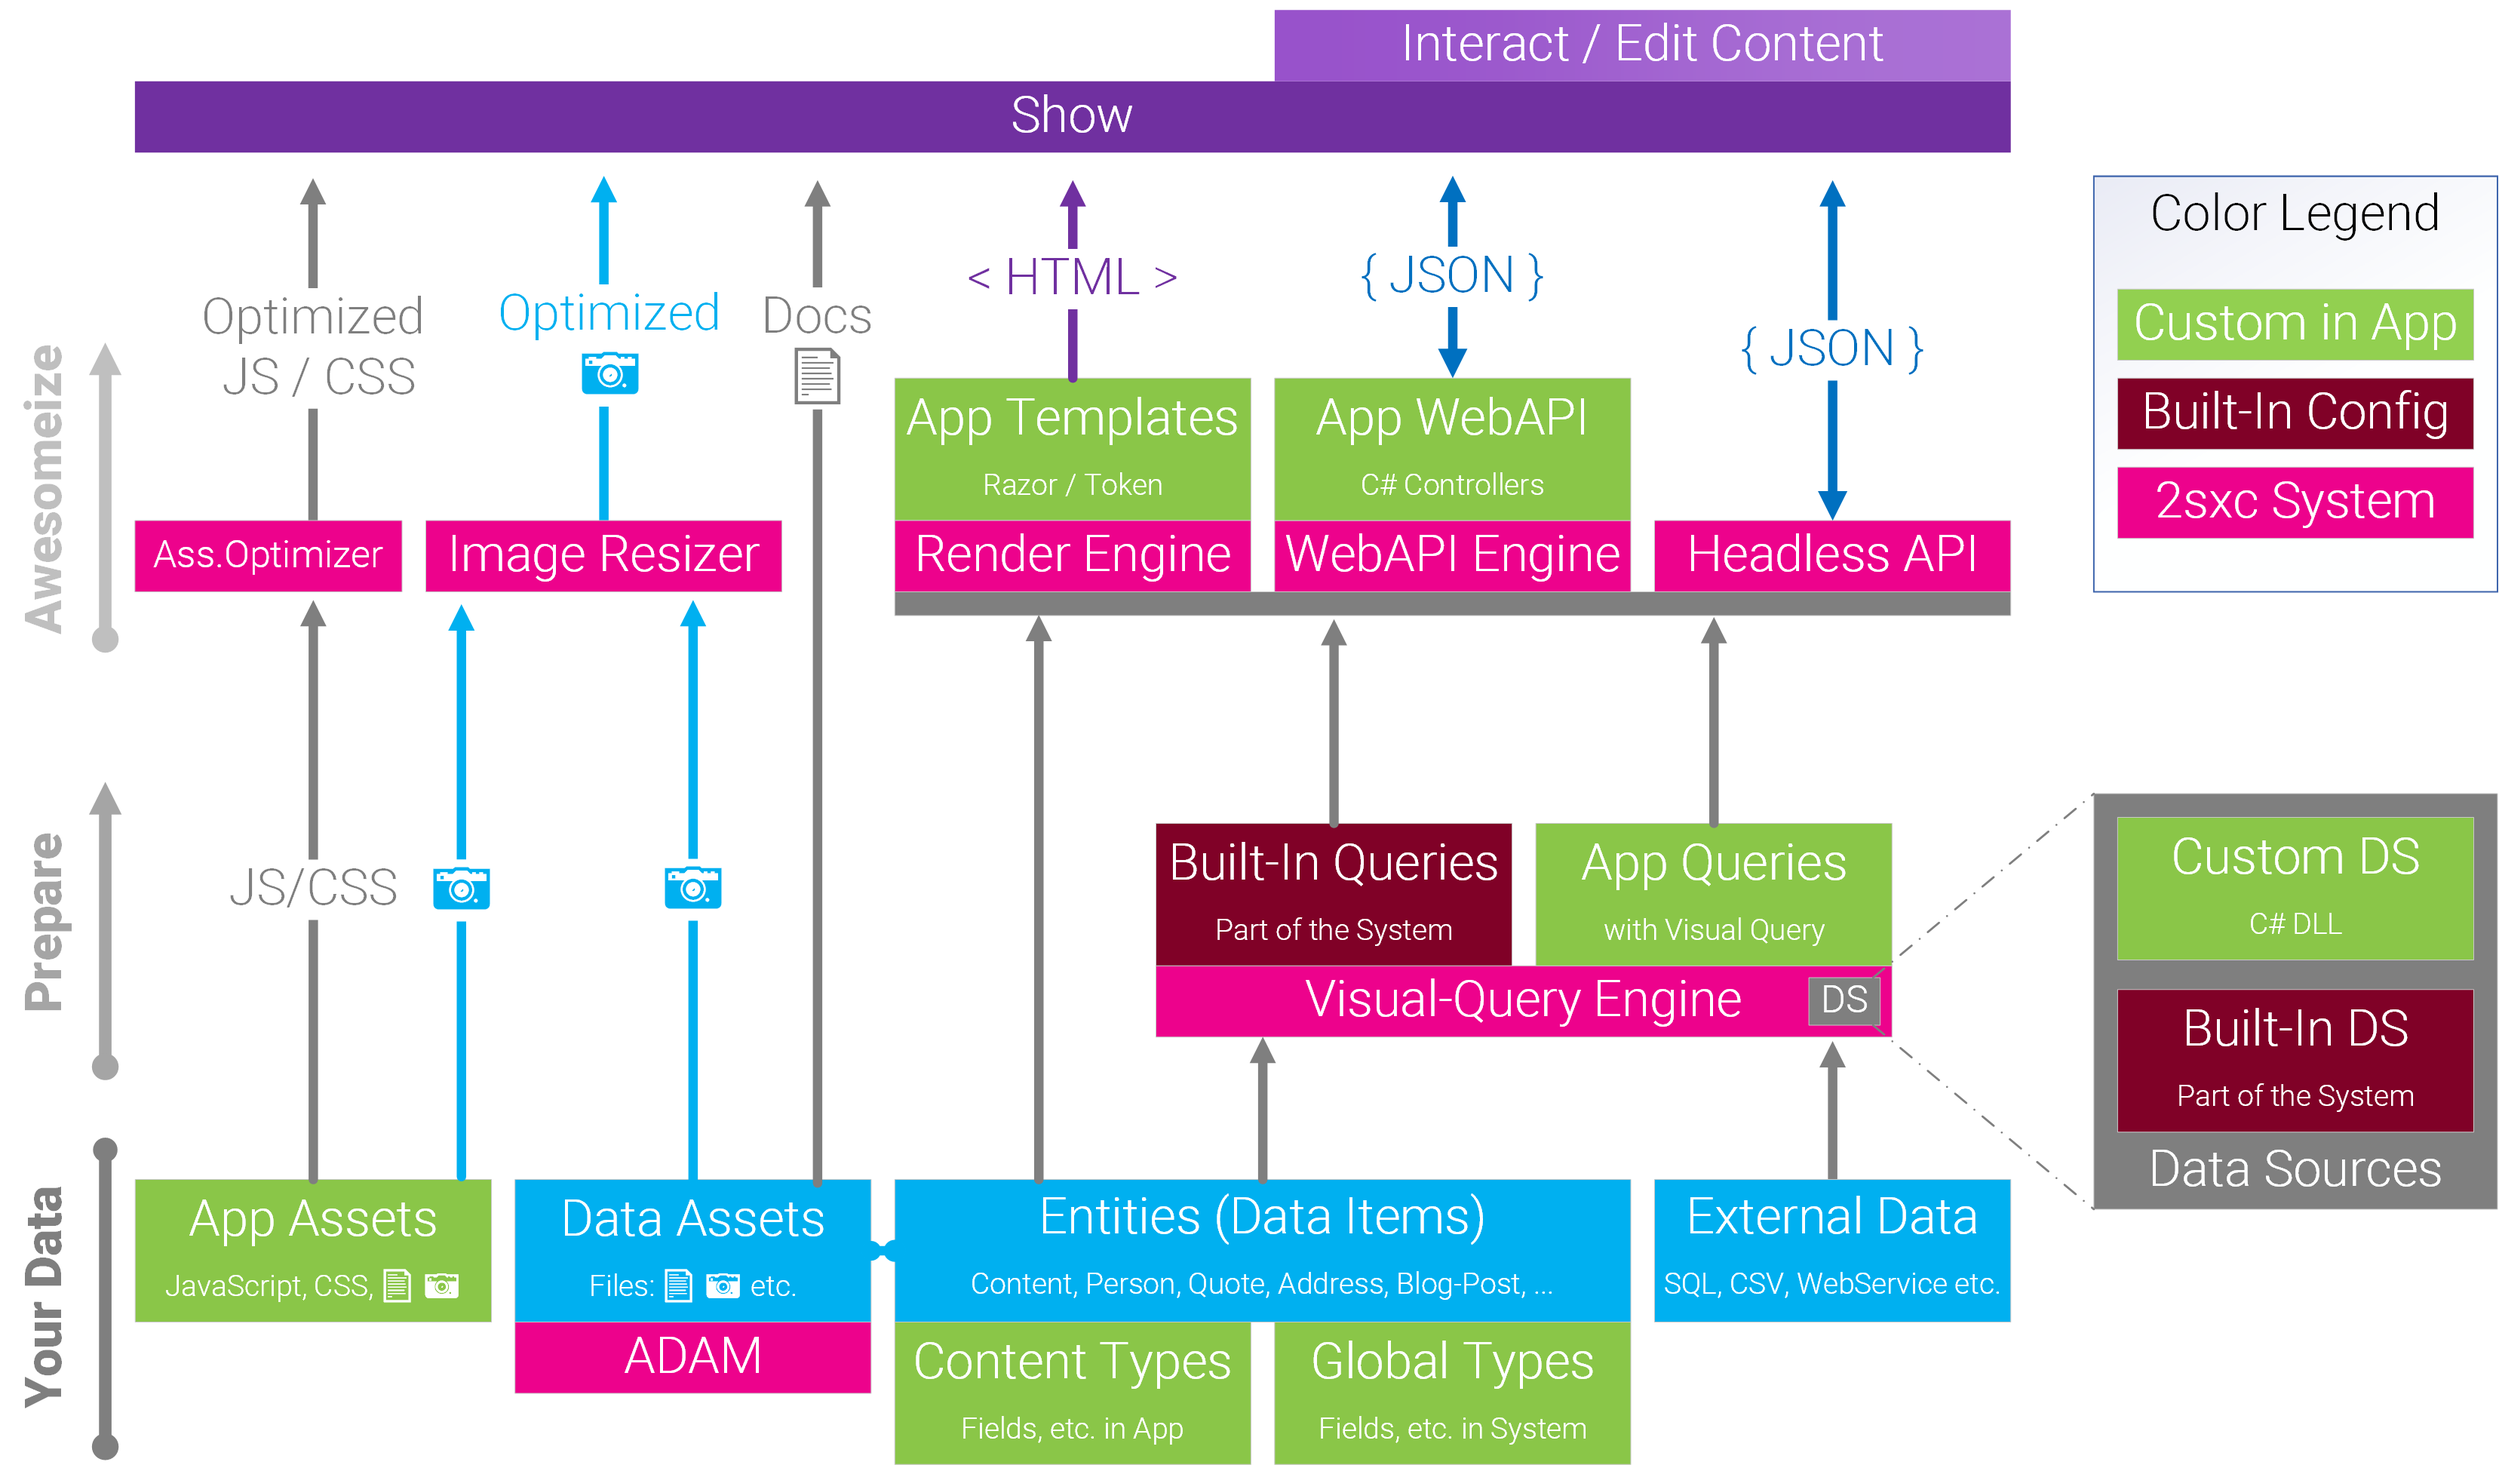
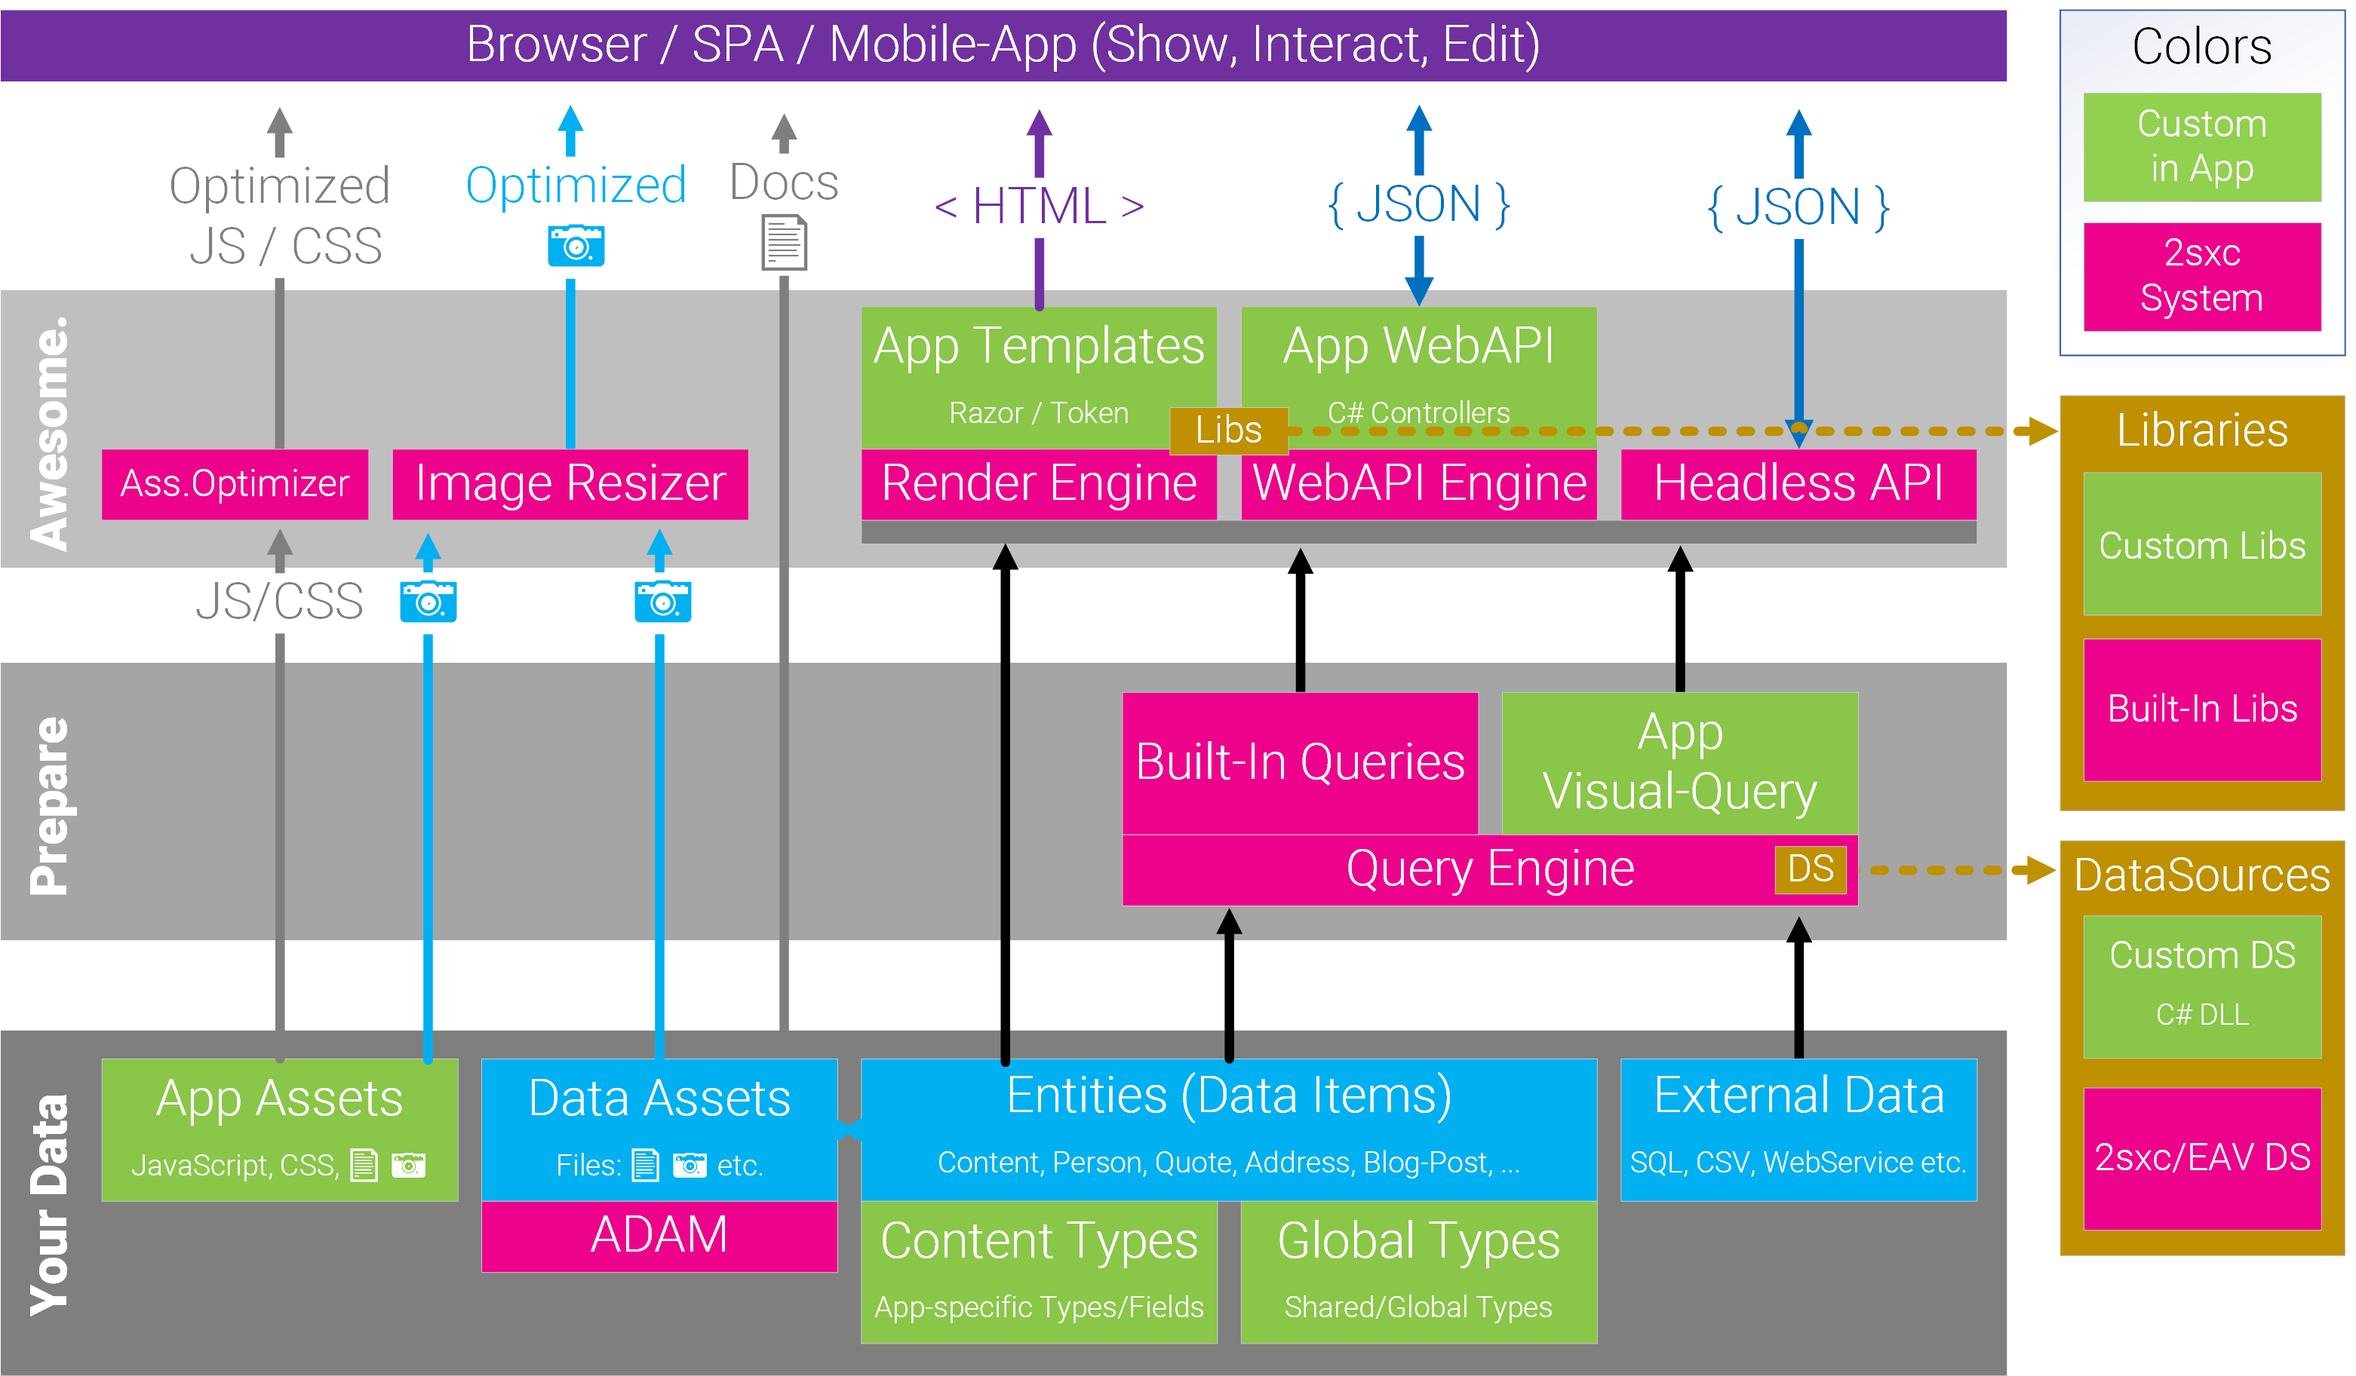
update app-schema images, add client-side

diff --git a/docs/basics/index.html b/docs/basics/index.html
@@ -115,18 +115,19 @@
         <div class="article row grid-right">
           <div class="col-md-10">
             <article class="content wrap" id="_content" data-uid="Basics.Index">
-<h1 id="work-in-progress">Work-In-Progress</h1>
 
+<div class="WARNING"><h5>Warning</h5><h1 id="work-in-progress">Work-In-Progress</h1>
 <p><em>We&#39;re reorganizing our introduction / basics Docs - they will be moved to here. This is still WIP.</em></p>
+</div>
 <h1 id="basics">Basics</h1>
 <p>In 2sxc most things <em>just work</em>. These docs give you a deep understanding of how they work so you can figure out really cool stuff. But don&#39;t be intimidated - by default things just magically work. </p>
 <h2 id="how-systems-and-user-interact">How Systems and User Interact</h2>
-<p><img src="assets/show-interact-edit.png" align="right" class="float-right" width="150px"></p>
+<p><img src="assets/show-interact-edit.png" align="right" class="float-right" width="300px"></p>
 <p>This is what web-systems do at the top-level. On the top you see what happens in the browser:</p>
 <ol>
-<li><strong>Show</strong>: Output using HTML and sometimes enhanced a bit by JavaScript. This is the easiest way to work with 2sxc. Just give the browser everything and pimp the output a bit using HTML, CSS and JavaScript.</li>
-<li><strong>Interact</strong>: Content where the UI does some hard work like reorganizing data and often retrieving new data from JSON endpoint. This requires more skills that just showing stuff. </li>
-<li><strong>Edit Content</strong>: Editing is built into everything by default and you can customized it as much as you need, up to creating custom WebAPIs, forms and input fields.</li>
+<li><strong>Show</strong>: Output using HTML and a little CSS + JS. This is the simplest way to work with 2sxc.</li>
+<li><strong>Interact</strong>: Content or SPAs where the UI does some hard work like reorganizing data and getting data from JSON endpoints. This requires additional skills.</li>
+<li><strong>Edit</strong>: Editing is built into everything by default and you can customized it as much as you need, up to creating custom WebAPIs, forms and input fields.</li>
 </ol>
 <p>The bottom shows what happens on the server:</p>
 <ol>
@@ -134,11 +135,14 @@
 <li><strong>Prepare</strong> is a layer of data processing where the desired data is selected to be shown, filtered, sorted etc.<br> <em>By default this happens automatically, you don&#39;t have to do anything! But you can customize it anyhow you want.</em></li>
 <li><strong>Awesomize</strong> - this is where you tell the system how the output should look, what image sizen you want, how the HTML should be built etc. </li>
 </ol>
-<h2 id="deeper-dive-into-the-server-layer-dataprepareawesomeize">Deeper Dive into the Server Layer (Data/Prepare/Awesomeize)</h2>
+<h2 id="deeper-dive-into-the-client-show-interact-edit">Deeper Dive into the Client (Show, Interact, Edit)</h2>
+<p><img src="../shared/app/assets/app-browser.png" class="full-width"></p>
+<p><em>Click on the image to zoom, visit <a class="xref" href="customize/index.html">Customize Everything</a> to learn more</em></p>
+<p>TODO:</p>
+<h2 id="deeper-dive-into-the-server-data-prepare-awesomeize">Deeper Dive into the Server (Data, Prepare, Awesomeize)</h2>
 <p>Here&#39;s a diagram of what an App can have, and which parts you control:</p>
 <p><img src="../shared/app/assets/app-server.png" class="full-width"></p>
 <p><em>Click on the image to zoom, visit <a class="xref" href="customize/index.html">Customize Everything</a> to learn more</em></p>
-<p>TODO </p>
 <h2 id="whats-where">What&#39;s Where</h2>
 <p>This documentation contains the following sections</p>
 <p>TODO</p>

diff --git a/2sxc Docs Generator/basics/index.md b/2sxc Docs Generator/basics/index.md
@@ -2,9 +2,10 @@
 uid: Basics.Index
 ---
 
-# Work-In-Progress
-
-_We're reorganizing our introduction / basics Docs - they will be moved to here. This is still WIP._
+> [!WARNING]
+> # Work-In-Progress
+> 
+> _We're reorganizing our introduction / basics Docs - they will be moved to here. This is still WIP._
 
 # Basics
 
@@ -15,13 +16,13 @@ In 2sxc most things _just work_. These docs give you a deep understanding of how
 
 ## How Systems and User Interact
 
-<img src="./assets/show-interact-edit.png" align="right" class="float-right" width="150px">
+<img src="./assets/show-interact-edit.png" align="right" class="float-right" width="300px">
 
 This is what web-systems do at the top-level. On the top you see what happens in the browser:
 
-1. **Show**: Output using HTML and sometimes enhanced a bit by JavaScript. This is the easiest way to work with 2sxc. Just give the browser everything and pimp the output a bit using HTML, CSS and JavaScript.
-1. **Interact**: Content where the UI does some hard work like reorganizing data and often retrieving new data from JSON endpoint. This requires more skills that just showing stuff. 
-1. **Edit Content**: Editing is built into everything by default and you can customized it as much as you need, up to creating custom WebAPIs, forms and input fields.
+1. **Show**: Output using HTML and a little CSS + JS. This is the simplest way to work with 2sxc.
+1. **Interact**: Content or SPAs where the UI does some hard work like reorganizing data and getting data from JSON endpoints. This requires additional skills.
+1. **Edit**: Editing is built into everything by default and you can customized it as much as you need, up to creating custom WebAPIs, forms and input fields.
 
 The bottom shows what happens on the server:
 
@@ -31,16 +32,16 @@ The bottom shows what happens on the server:
     _By default this happens automatically, you don't have to do anything! But you can customize it anyhow you want._
 1. **Awesomize** - this is where you tell the system how the output should look, what image sizen you want, how the HTML should be built etc. 
 
+## Deeper Dive into the Client (Show, Interact, Edit)
 
-## Deeper Dive into the Server Layer (Data/Prepare/Awesomeize)
+[!include["App browser"](../shared/app/app-browser-raw.md)]
+
+## Deeper Dive into the Server (Data, Prepare, Awesomeize)
 
 Here's a diagram of what an App can have, and which parts you control:
 
-[!include["App diagram"](../shared/app/app-diagram-raw.md)]
+[!include["App diagram"](../shared/app/app-server-raw.md)]
 
-
-
-TODO 
 
 ## What's Where
 

diff --git a/2sxc Docs Generator/shared/app/app-browser-raw.md b/2sxc Docs Generator/shared/app/app-browser-raw.md
@@ -1,0 +1,3 @@
+<img src="./assets/app-browser.png" class="full-width">
+
+_Click on the image to zoom, visit [](xref:Basics.Customize.Index) to learn more_
